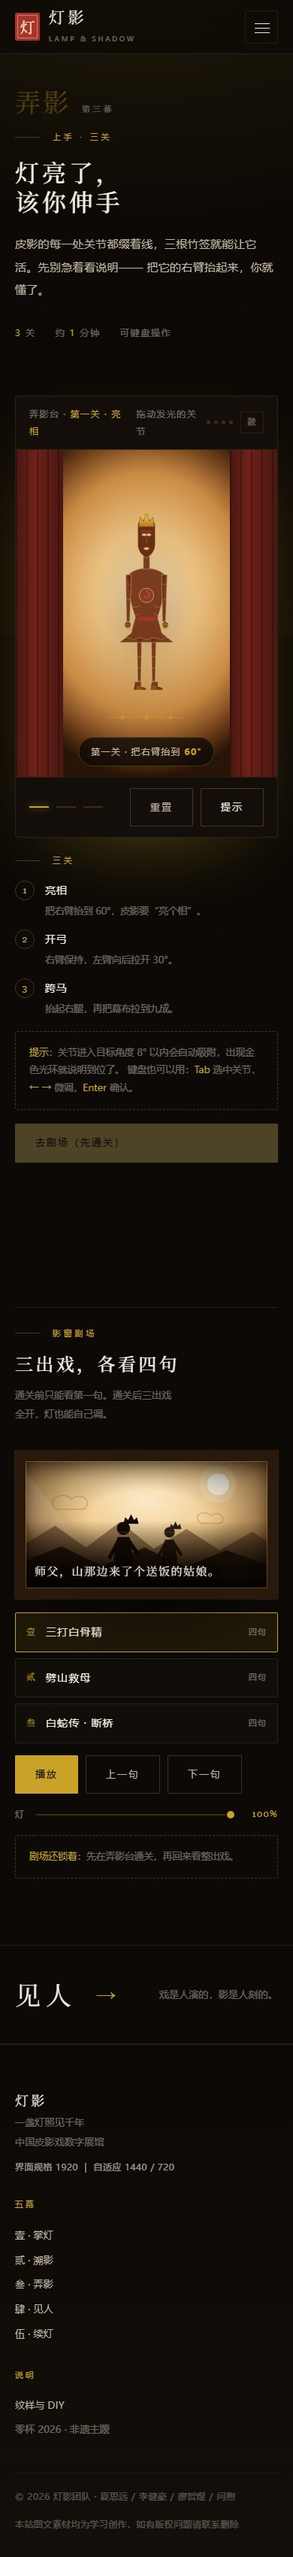
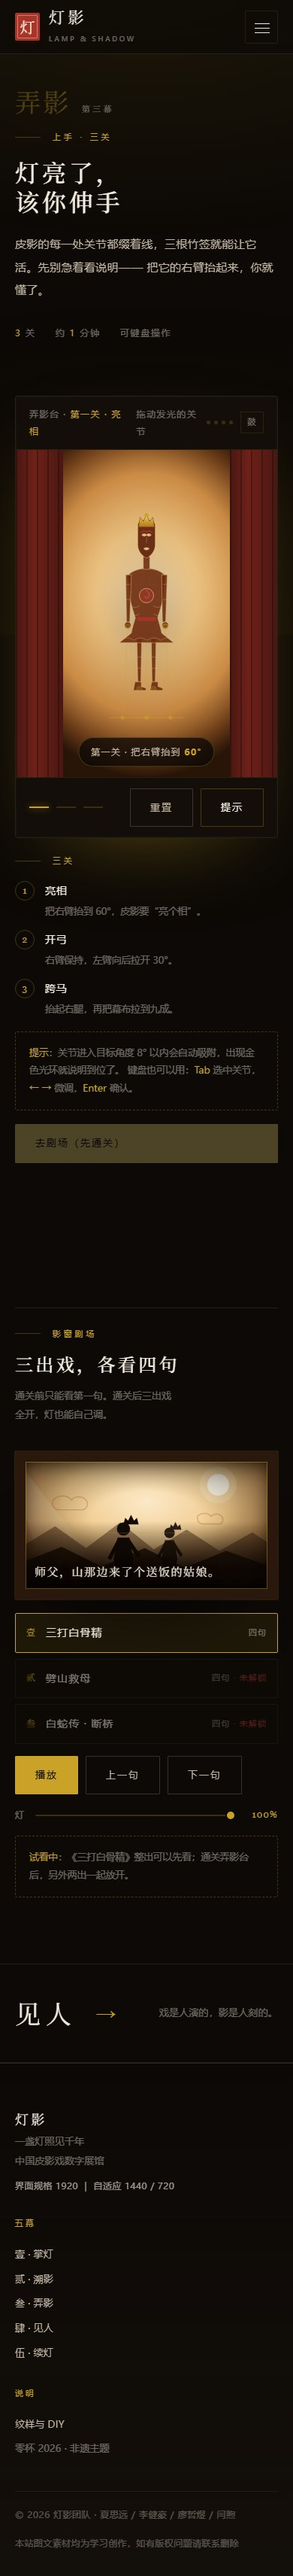
feat: 关节惯性、剧场试看与入口评级角标
- 松手惯性：按角速度衰减，越近目标阻尼越强，命中阈值前自动吸附
- 剧场由句子级锁改为剧目级锁：第一出整出可看，后两出用 aria-disabled（保留点击以便给提示），提示条带抖动脉冲
- 首页弄影入口角标显示甲乙丙等级（读 localStorage.playResult）
- 评级规则收紧：三关全准为甲，无失手为乙，有失手为丙
- 回归：30 组审计 0 报错，键盘通关 passed=true，实测 2 准 1 良 = 290 分乙等

diff --git a/web/assets/js/stage.js b/web/assets/js/stage.js
@@ -249,7 +249,7 @@
     });
     var rank = "丙";
     if (perfect >= 3) rank = "甲";
-    else if (perfect + good >= 2 && miss <= 1) rank = "乙";
+    else if (miss === 0) rank = "乙";
     var label = { "甲": "满堂彩", "乙": "叫好", "丙": "还行" }[rank];
 
     lockNote.innerHTML = "<b>通关 · " + rank + " 等</b>：" + label + "。" +
@@ -269,6 +269,41 @@
   }
 
   /* ---------- 拖拽关节 ---------- */
+  var spinRaf = 0;
+  function cancelSpin() {
+    if (spinRaf) { cancelAnimationFrame(spinRaf); spinRaf = 0; }
+  }
+
+  /* 松手后带一点惯性：越接近目标，阻尼越强，最终自己停住 */
+  function spinOut(name, el, velocity) {
+    var v = velocity;
+    var last = performance.now();
+    cancelSpin();
+    function step(now) {
+      spinRaf = 0;
+      if (state.busy) return;
+      var dt = Math.min(40, now - last);
+      last = now;
+      var cur = state.rot[name] || 0;
+      cur += v * dt;
+      v *= Math.pow(0.9, dt / 16);
+      if (Math.abs(v) < 0.006) return;
+
+      var target = currentLevel().targets[name];
+      if (typeof target === "number" && Math.abs(cur - target) <= SNAP) {
+        setRot(name, target);
+        el.classList.add("is-snapped");
+        spring(el);
+        checkWin();
+        return;
+      }
+      cur = Math.max(-175, Math.min(175, cur));
+      setRot(name, cur);
+      spinRaf = requestAnimationFrame(step);
+    }
+    spinRaf = requestAnimationFrame(step);
+  }
+
   joints.forEach(function (el) {
     var name = el.dataset.joint;
     var pivot = pivotOf(el);
@@ -280,12 +315,16 @@
       if (!p) return;
       e.preventDefault();
       startBeat();
+      cancelSpin();
       el.classList.add("is-active");
       el.setPointerCapture(e.pointerId);
       drag = {
         id: e.pointerId,
         startAngle: Math.atan2(p.y - pivot.y, p.x - pivot.x) * 180 / Math.PI,
-        startRot: state.rot[name] || 0
+        startRot: state.rot[name] || 0,
+        prevRaw: state.rot[name] || 0,
+        prevT: performance.now(),
+        vel: 0
       };
     });
 
@@ -319,13 +358,24 @@
         el.classList.remove("is-snapped");
         setRot(name, raw);
       }
+
+      /* 记录角速度，松手时用它做惯性 */
+      var now = performance.now();
+      if (now - drag.prevT > 4) {
+        drag.vel = (raw - drag.prevRaw) / (now - drag.prevT);
+        drag.prevRaw = raw;
+        drag.prevT = now;
+      }
     });
 
     function end(e) {
       if (!drag || e.pointerId !== drag.id) return;
+      var v = Math.max(-0.5, Math.min(0.5, drag.vel || 0));
+      var snapped = el.classList.contains("is-snapped");
       drag = null;
       el.classList.remove("is-active");
       checkWin();
+      if (!state.busy && !snapped && Math.abs(v) > 0.012) spinOut(name, el, v);
     }
     el.addEventListener("pointerup", end);
     el.addEventListener("pointercancel", end);

diff --git a/web/assets/js/theater.js b/web/assets/js/theater.js
@@ -126,7 +126,11 @@
 
   function unlock() {
     state.unlocked = true;
-    plays.forEach(function (b) { b.removeAttribute("disabled"); b.setAttribute("aria-disabled", "false"); });
+    plays.forEach(function (b) {
+      b.removeAttribute("disabled");
+      b.setAttribute("aria-disabled", "false");
+      b.classList.remove("is-locked");
+    });
     if (lockEl) { lockEl.innerHTML = "<b>已解锁</b>：三出戏都能放了。灯也可以调暗，字幕会自己提亮。"; }
   }
 
@@ -143,11 +147,6 @@
   }
   if (nextBtn) {
     nextBtn.addEventListener("click", function () {
-      if (!state.unlocked && state.play === 0 && state.line >= 0 && state.line === 0) {
-        /* 未通关时只允许看第一句 */
-        if (lockEl) lockEl.innerHTML = "<b>剧场还锁着</b>：先在弄影台通关，这里才会放开三出戏。";
-        return;
-      }
       advance(false);
     });
   }
@@ -155,7 +154,11 @@
   plays.forEach(function (btn, i) {
     btn.addEventListener("click", function () {
       if (!state.unlocked && i > 0) {
-        if (lockEl) lockEl.innerHTML = "<b>剧场还锁着</b>：先去弄影台通关。";
+        /* 锁住的不是整座剧场，而是后两出：第一出永远能看 */
+        if (lockEl) lockEl.innerHTML = "<b>这出还没开</b>：通关弄影台后，三出戏一起放开。第一出可以先看。";
+        lockEl.classList.remove("is-poke");
+        void lockEl.offsetWidth;
+        lockEl.classList.add("is-poke");
         return;
       }
       state.play = i;
@@ -179,9 +182,13 @@
   if (state.unlocked) unlock();
   else {
     plays.forEach(function (b, i) {
-      if (i > 0) { b.setAttribute("disabled", "disabled"); b.setAttribute("aria-disabled", "true"); }
+      if (i > 0) {
+        /* 用 aria-disabled 而不是 disabled：disabled 会吞掉点击，用户以为页面坏了 */
+        b.setAttribute("aria-disabled", "true");
+        b.classList.add("is-locked");
+      }
     });
-    if (lockEl) lockEl.innerHTML = "<b>剧场还锁着</b>：先在弄影台通关，再回来看整出戏。";
+    if (lockEl) lockEl.innerHTML = "<b>试看中</b>：《三打白骨精》整出可以先看；通关弄影台后，另外两出一起放开。";
   }
 
   render(false);

diff --git a/web/assets/js/lamp.js b/web/assets/js/lamp.js
@@ -38,11 +38,17 @@
     }
   }
 
-  /* 首页入口卡的"已通关"角标 */
+  /* 首页入口卡的"已通关"角标：有评级就显示评级 */
   var badge = document.getElementById("playBadge");
   var entryPlay = document.getElementById("entryPlay");
   try {
     if (badge && entryPlay && localStorage.getItem("playPassed") === "1") {
+      var rank = "";
+      try {
+        var saved = JSON.parse(localStorage.getItem("playResult") || "null");
+        if (saved && saved.rank) rank = saved.rank;
+      } catch (e2) { /* 旧数据没有评级 */ }
+      badge.textContent = rank ? rank + " 等 · 已通关" : "已通关";
       badge.hidden = false;
       badge.parentElement.classList.add("is-passed");
     }

diff --git a/web/assets/css/pages.css b/web/assets/css/pages.css
@@ -206,6 +206,13 @@ body[data-lit="1"] .hero__scroll { display: none; }
   line-height: 1.9;
 }
 .locked-note b { color: var(--lamp); font-weight: 500; }
+.locked-note.is-poke { animation: poke .5s var(--ease); }
+@keyframes poke {
+  0%, 100% { transform: translateX(0); border-color: var(--line); }
+  25% { transform: translateX(-4px); border-color: var(--cinnabar); }
+  55% { transform: translateX(4px); border-color: var(--cinnabar); }
+  80% { transform: translateX(-2px); }
+}
 
 /* ---------- 见人 ---------- */
 .quotes-wall { display: grid; gap: clamp(18px, 2.4vw, 30px); margin-top: clamp(40px, 5vw, 70px); }

diff --git a/web/assets/css/components.css b/web/assets/css/components.css
@@ -687,6 +687,9 @@
 }
 .play:hover { border-color: var(--line-strong); }
 .play[aria-current="true"] { border-color: var(--lamp); background: rgba(201, 162, 39, .1); }
+.play.is-locked { opacity: .48; cursor: not-allowed; }
+.play.is-locked:hover { opacity: .68; border-color: var(--cinnabar); }
+.play.is-locked .play__meta::after { content: " · 未解锁"; color: var(--cinnabar); }
 .play__no { font-family: var(--num); font-size: 12px; color: var(--lamp); }
 .play__name { font-size: 14px; letter-spacing: .08em; }
 .play__meta { margin-left: auto; font-size: 11px; color: var(--paper-faint); letter-spacing: .1em; }

diff --git a/web/play.html b/web/play.html
@@ -325,7 +325,7 @@
             <span id="brightnessVal">100%</span>
           </div>
 
-          <p class="locked-note" id="theaterLock">剧场还锁着：先在弄影台通关，再回来看整出戏。</p>
+          <p class="locked-note" id="theaterLock">试看中：《三打白骨精》整出可以先看；通关弄影台后，另外两出一起放开。</p>
         </div>
       </div>
     </div>

diff --git a/README.md b/README.md
@@ -37,8 +37,8 @@
 ## 三、亮点功能
 
 1. **点灯开场**：首屏是暗的。只有一盏没点燃的灯和一句"灯亮起来，皮影才活"。点击之后，整站亮起，皮影从幕布后浮出——把"进入网站"变成"点亮一盏灯"。
-2. **弄影台（核心交互）**：三关拖拽，1 分钟内可通关。4 个可操作关节、±8° 吸附、金色光环反馈、反向阻尼手感；每关结算按**与鼓点的贴合度**判「准 / 良 / 失」，连击加分，最终评甲乙丙三等（结果存在本地）。鼓点可开关，音效用 Web Audio 实时合成、不加载任何音频文件。键盘也能玩：`Tab` 选中关节，`←/→` 微调，`Shift` 加速。
-3. **影窗剧场**：三出经典剧目片段，字幕逐字浮现，灯箱亮度可调（30%–100%）；暗下来时字幕自动加亮，保持可读。
+2. **弄影台（核心交互）**：三关拖拽，1 分钟内可通关。4 个可操作关节、±8° 吸附、金色光环反馈、反向阻尼与**松手惯性**；每关结算按**与鼓点的贴合度**判「准 / 良 / 失」，连击加分，最终评甲乙丙三等（结果存在本地，首页入口会亮出等级）。鼓点可开关，音效用 Web Audio 实时合成、不加载任何音频文件。键盘也能玩：`Tab` 选中关节，`←/→` 微调，`Shift` 加速。
+3. **影窗剧场**：三出经典剧目片段，字幕逐字浮现，灯箱亮度可调（30%–100%）；暗下来时字幕自动加亮，保持可读。**未通关也能看完第一出**（试看），通关后放开另外两出——不让评委为了解锁而卡在门口。
 4. **七道工序**：选皮、制皮、画稿、镂刻、敷彩、发汗熨平、缀结——点开"镂刻"能看到刀口细节，用细节证明"我们真的查过"。
 5. **可带走**：纹样库 8 枚可下载 SVG；DIY 皮影可换头型、换纹样、换配色，并导出 PNG。
 6. **真的零依赖**：没有 Bootstrap、没有 Element、没有 CDN、没有外链字体。全部图形是手写 SVG，断网也能完整浏览。
@@ -209,6 +209,7 @@ node tools/anonymize.mjs web dist/匿名版
 | 2026-10-20 | M1++：组件层重构——七道工序改刻本式表格、工具墙改实物陈列排（说明常显）、传承人卡改档案照式证件框 |
 | 2026-10-20 | M1+++：影窗加木框与金线、剧场场景重绘（月/云/三层山/栏杆/双影人，三出戏各有晕色与点缀）、纹样卡加暖底与宋体名 |
 | 2026-10-20 | M2：弄影台加入鼓点判定（准/良/失 + 连击 + 甲乙丙评级）、拍点指示灯与可开关的合成鼓声 |
+| 2026-10-20 | M2+：关节松手惯性（速度衰减 + 近目标吸附）；剧场改为剧目级锁（第一出试看）；首页入口角标显示评级 |
 
 ---
 
